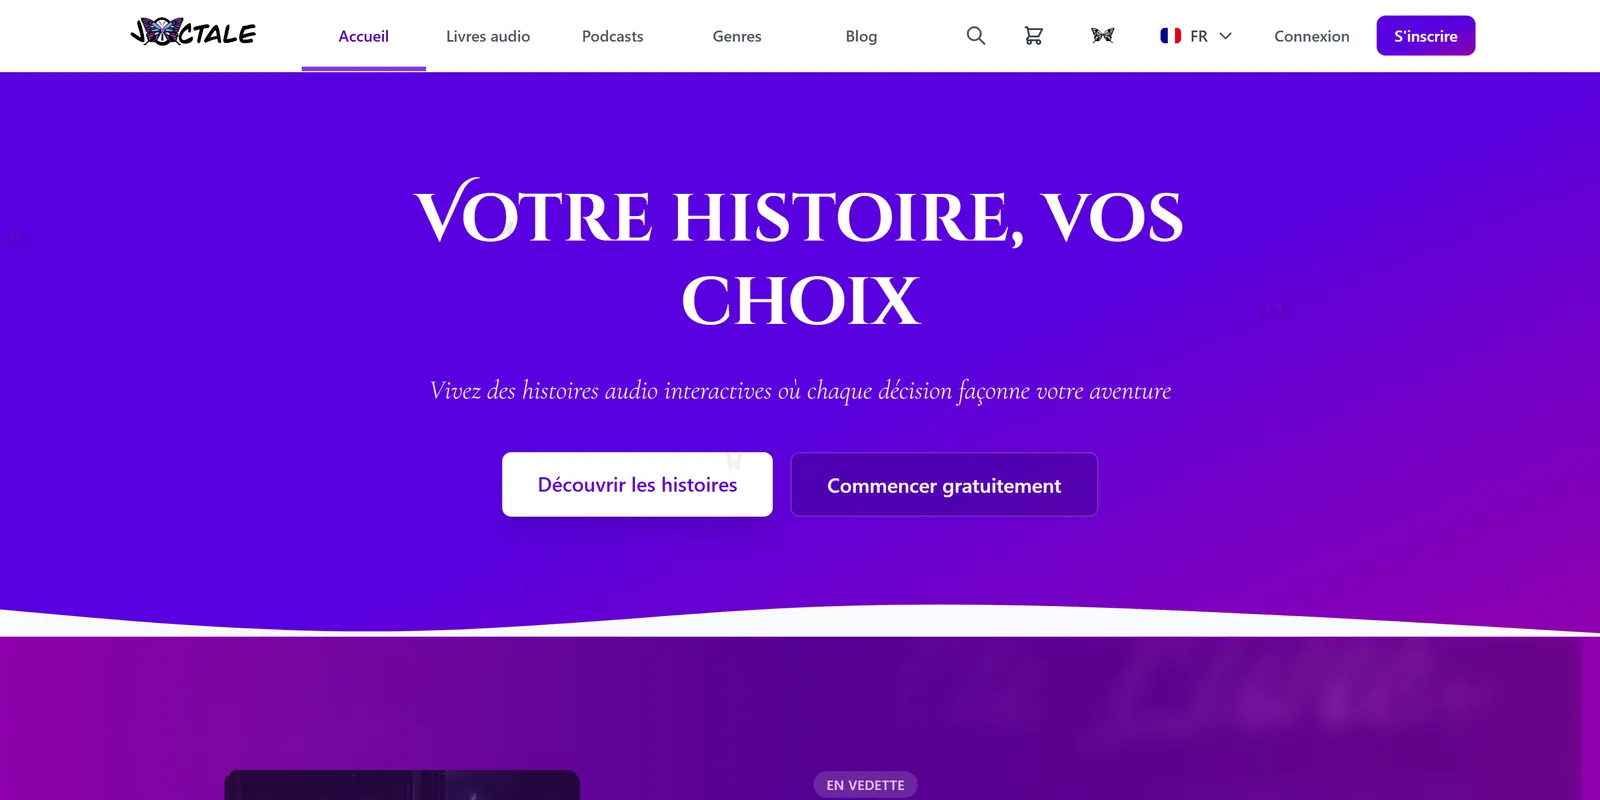
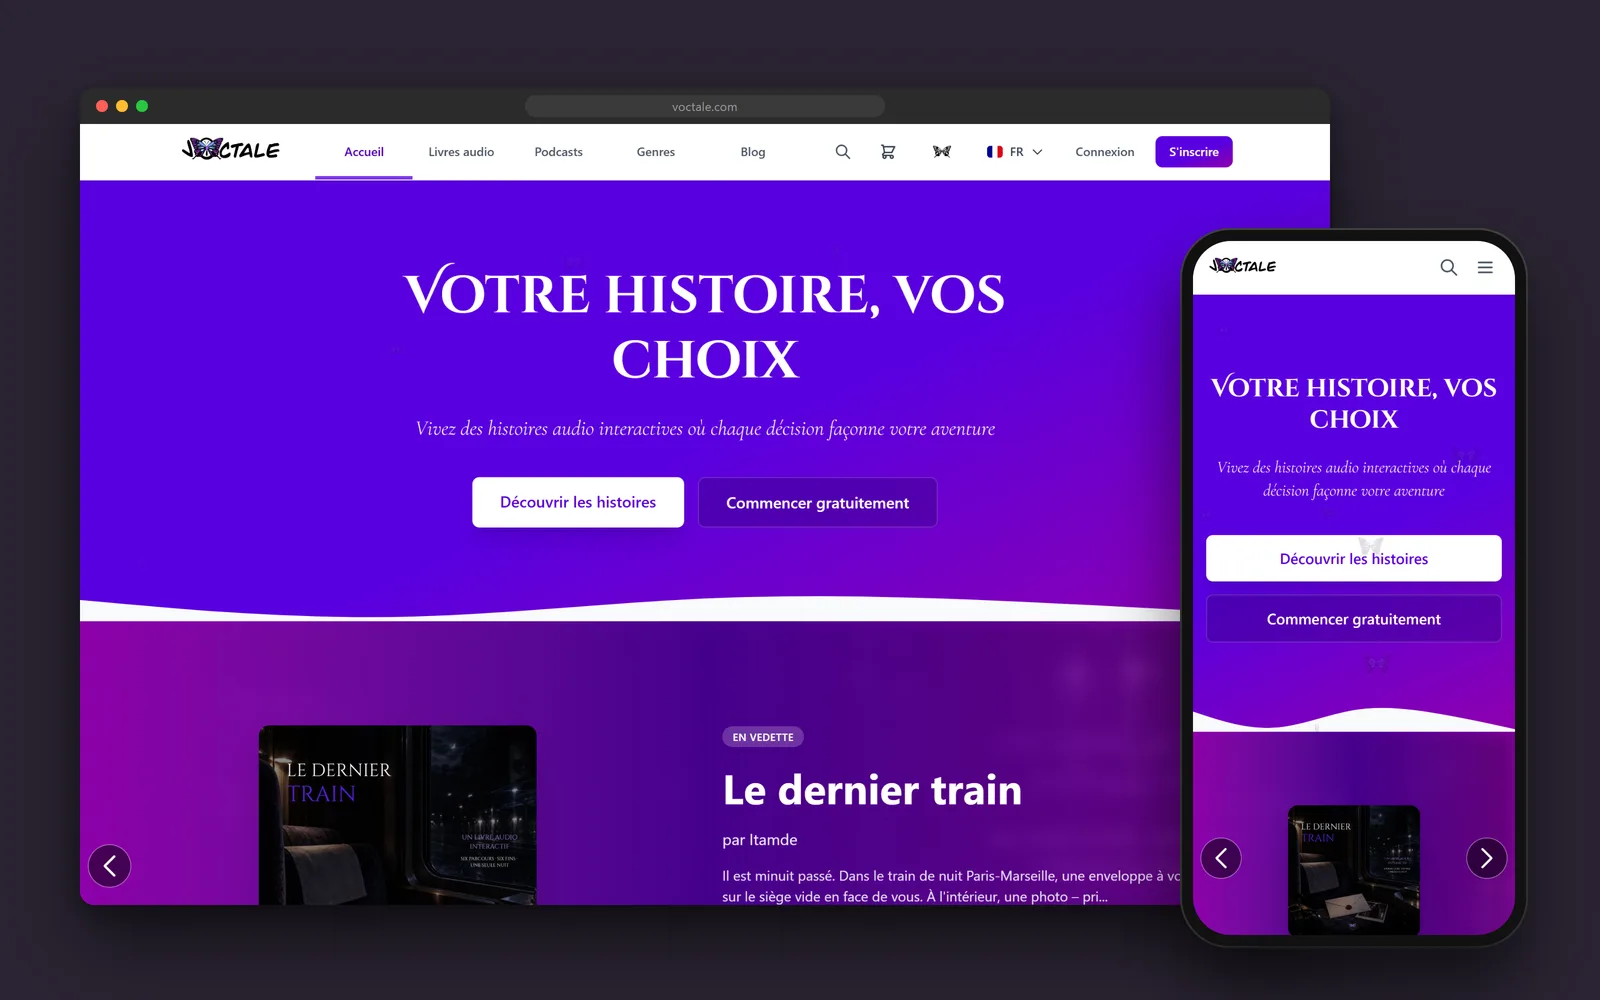
feat: add new project images and update image references in index.html

diff --git a/index.html b/index.html
@@ -251,7 +251,7 @@
                                 <span class="project-panel-index" aria-hidden="true">[ 02 / 08 ]</span>
                             </div>
                             <div class="project-panel-image">
-                                <img src="assets/images/voctale.webp" width="1600" height="800"
+                                <img src="assets/images/voctale.webp" width="1600" height="1000"
                                     alt="Capture d'écran du site Voctale - Livres audio interactifs" loading="lazy" />
                             </div>
                             <div class="project-panel-body">
@@ -329,7 +329,7 @@
                                 <span class="project-panel-index" aria-hidden="true">[ 04 / 08 ]</span>
                             </div>
                             <div class="project-panel-image">
-                                <img src="assets/images/lcz.webp" width="1585" height="774"
+                                <img src="assets/images/lcz.webp" width="1600" height="1000"
                                     alt="Capture d'écran du site L.C.Z Couverture Zinguerie" loading="lazy" />
                             </div>
                             <div class="project-panel-body">
@@ -368,7 +368,7 @@
                                 <span class="project-panel-index" aria-hidden="true">[ 05 / 08 ]</span>
                             </div>
                             <div class="project-panel-image">
-                                <img src="assets/images/2.webp" width="700" height="319"
+                                <img src="assets/images/yokoso.webp" width="1600" height="1000"
                                     alt="Capture d'écran du site Yokoso - Airbnb" loading="lazy" />
                             </div>
                             <div class="project-panel-body">
@@ -407,7 +407,7 @@
                                 <span class="project-panel-index" aria-hidden="true">[ 06 / 08 ]</span>
                             </div>
                             <div class="project-panel-image">
-                                <img src="assets/images/3.webp" width="700" height="347"
+                                <img src="assets/images/detect.webp" width="1600" height="1000"
                                     alt="Capture d'écran du site Detect - Évènement détection métaux" loading="lazy" />
                             </div>
                             <div class="project-panel-body">
@@ -447,7 +447,7 @@
                                 <span class="project-panel-index" aria-hidden="true">[ 07 / 08 ]</span>
                             </div>
                             <div class="project-panel-image">
-                                <img src="assets/images/4.webp" width="700" height="394"
+                                <img src="assets/images/nelumbo.webp" width="1600" height="1000"
                                     alt="Capture d'écran du site Nelumbo Blooms - Site fleuriste" loading="lazy" />
                             </div>
                             <div class="project-panel-body">
